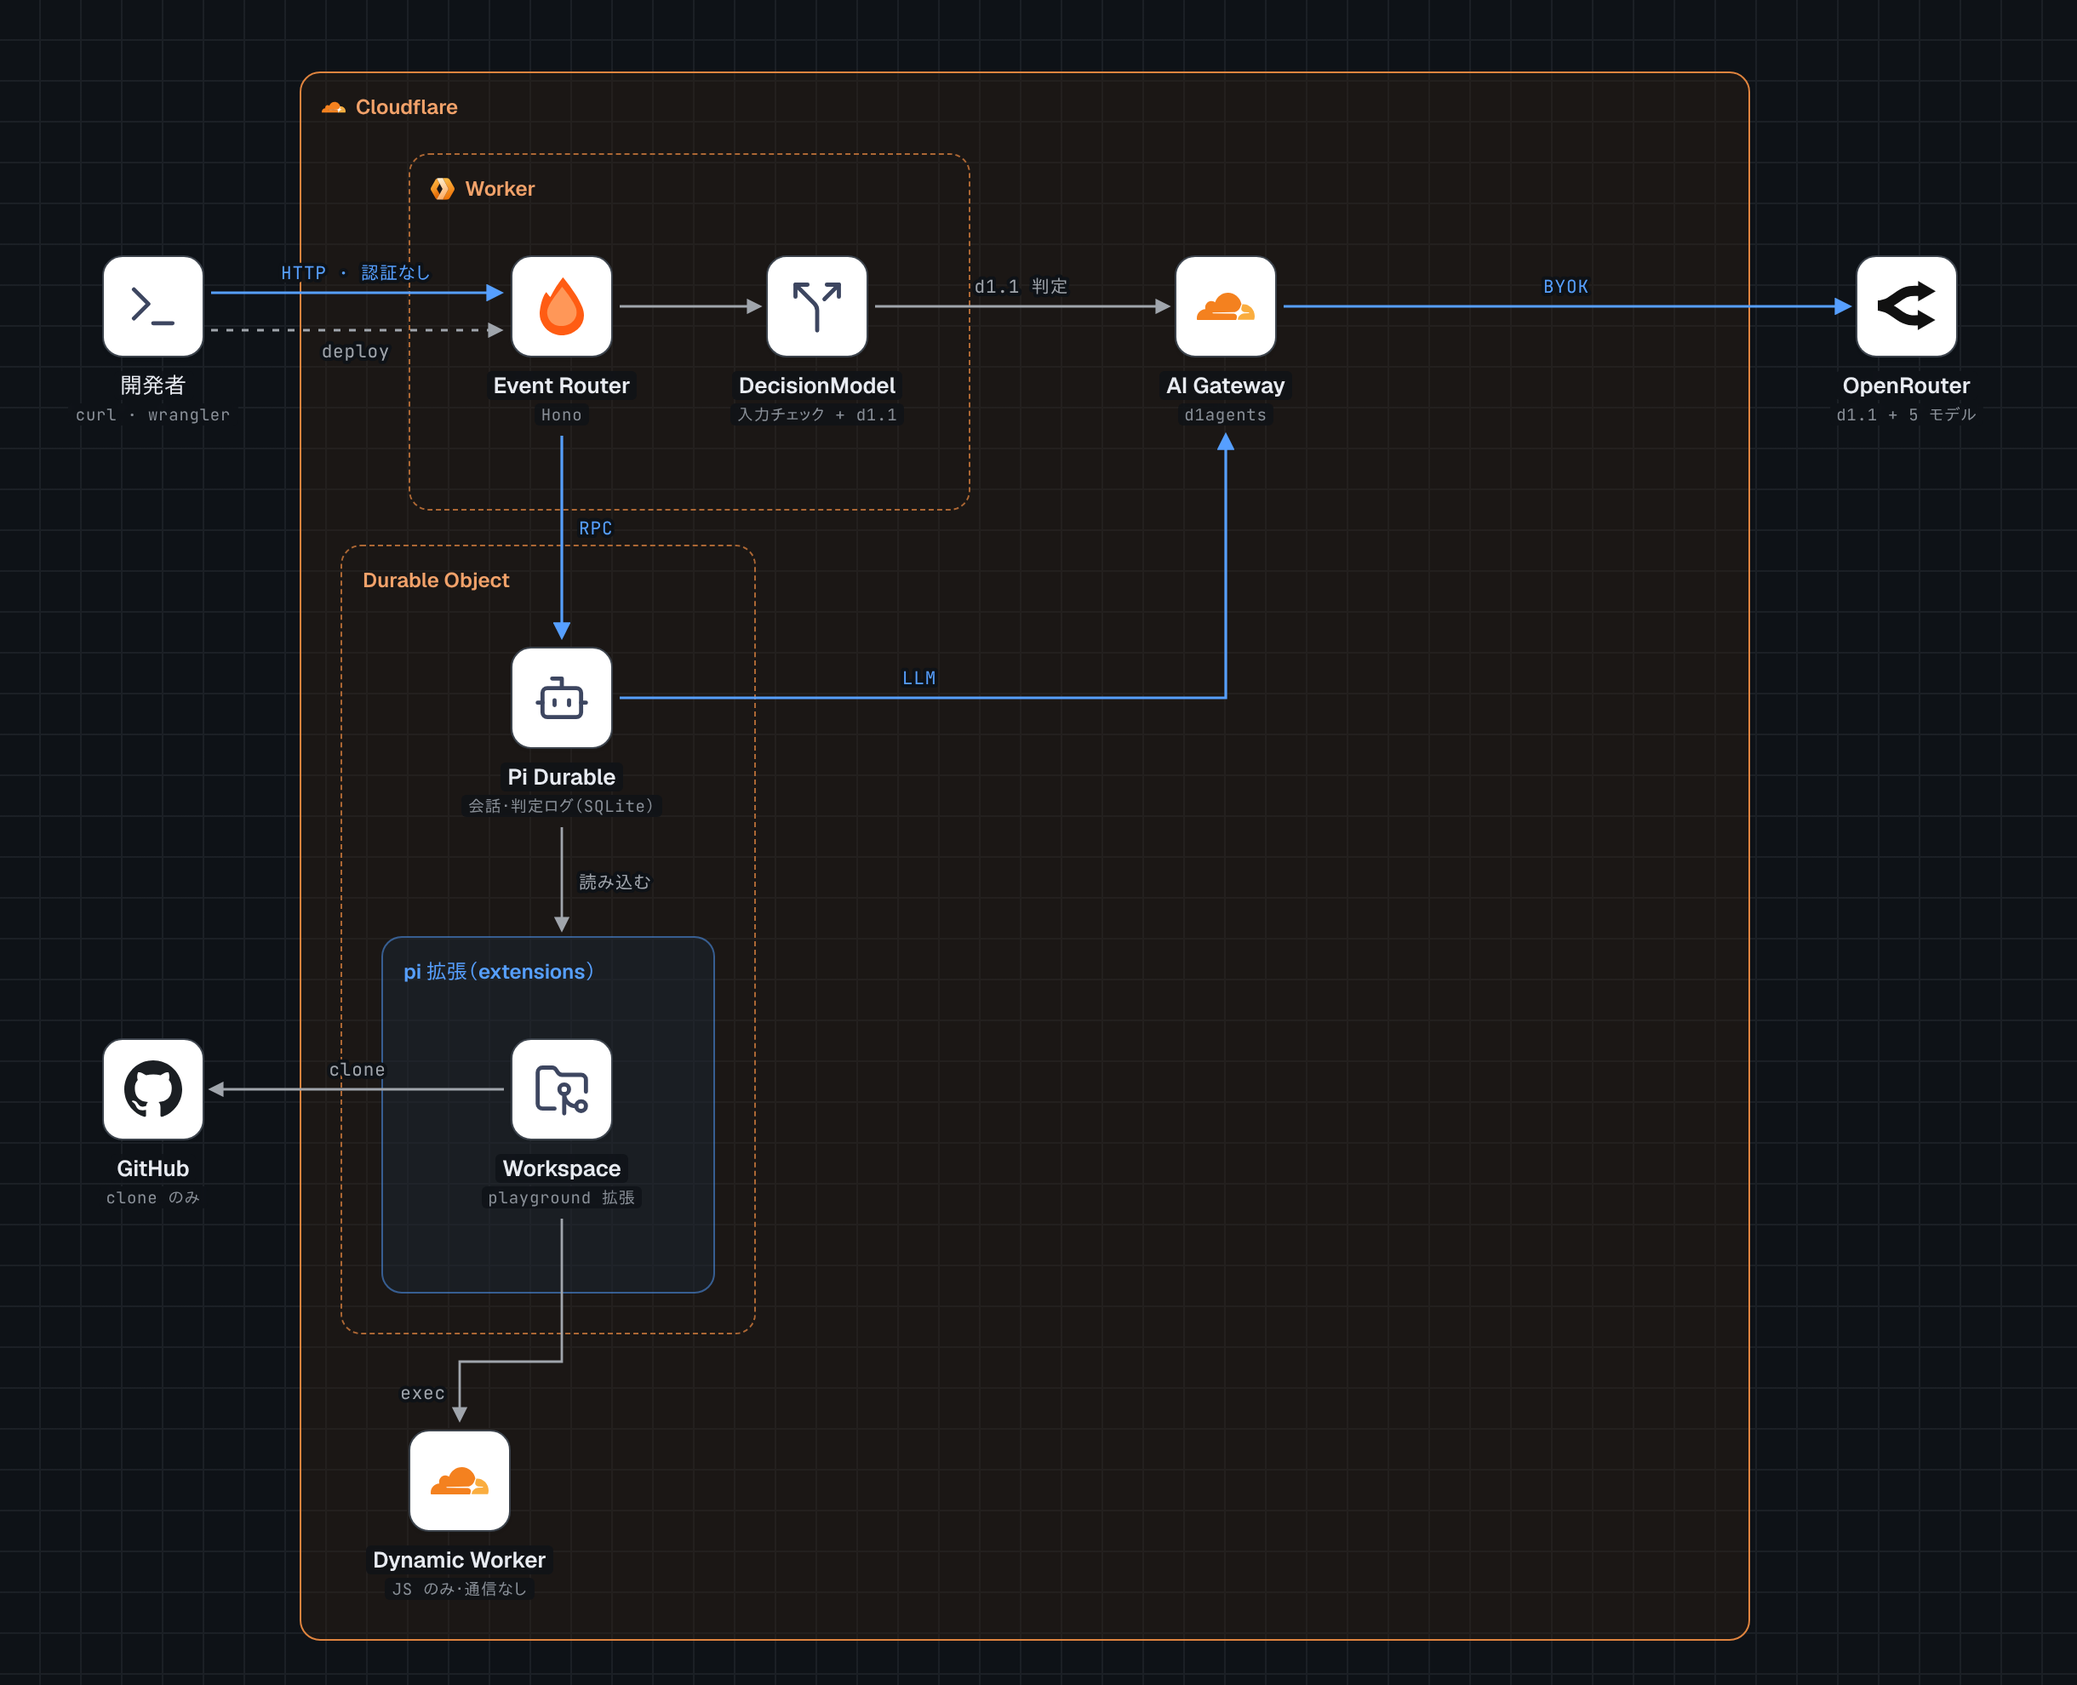
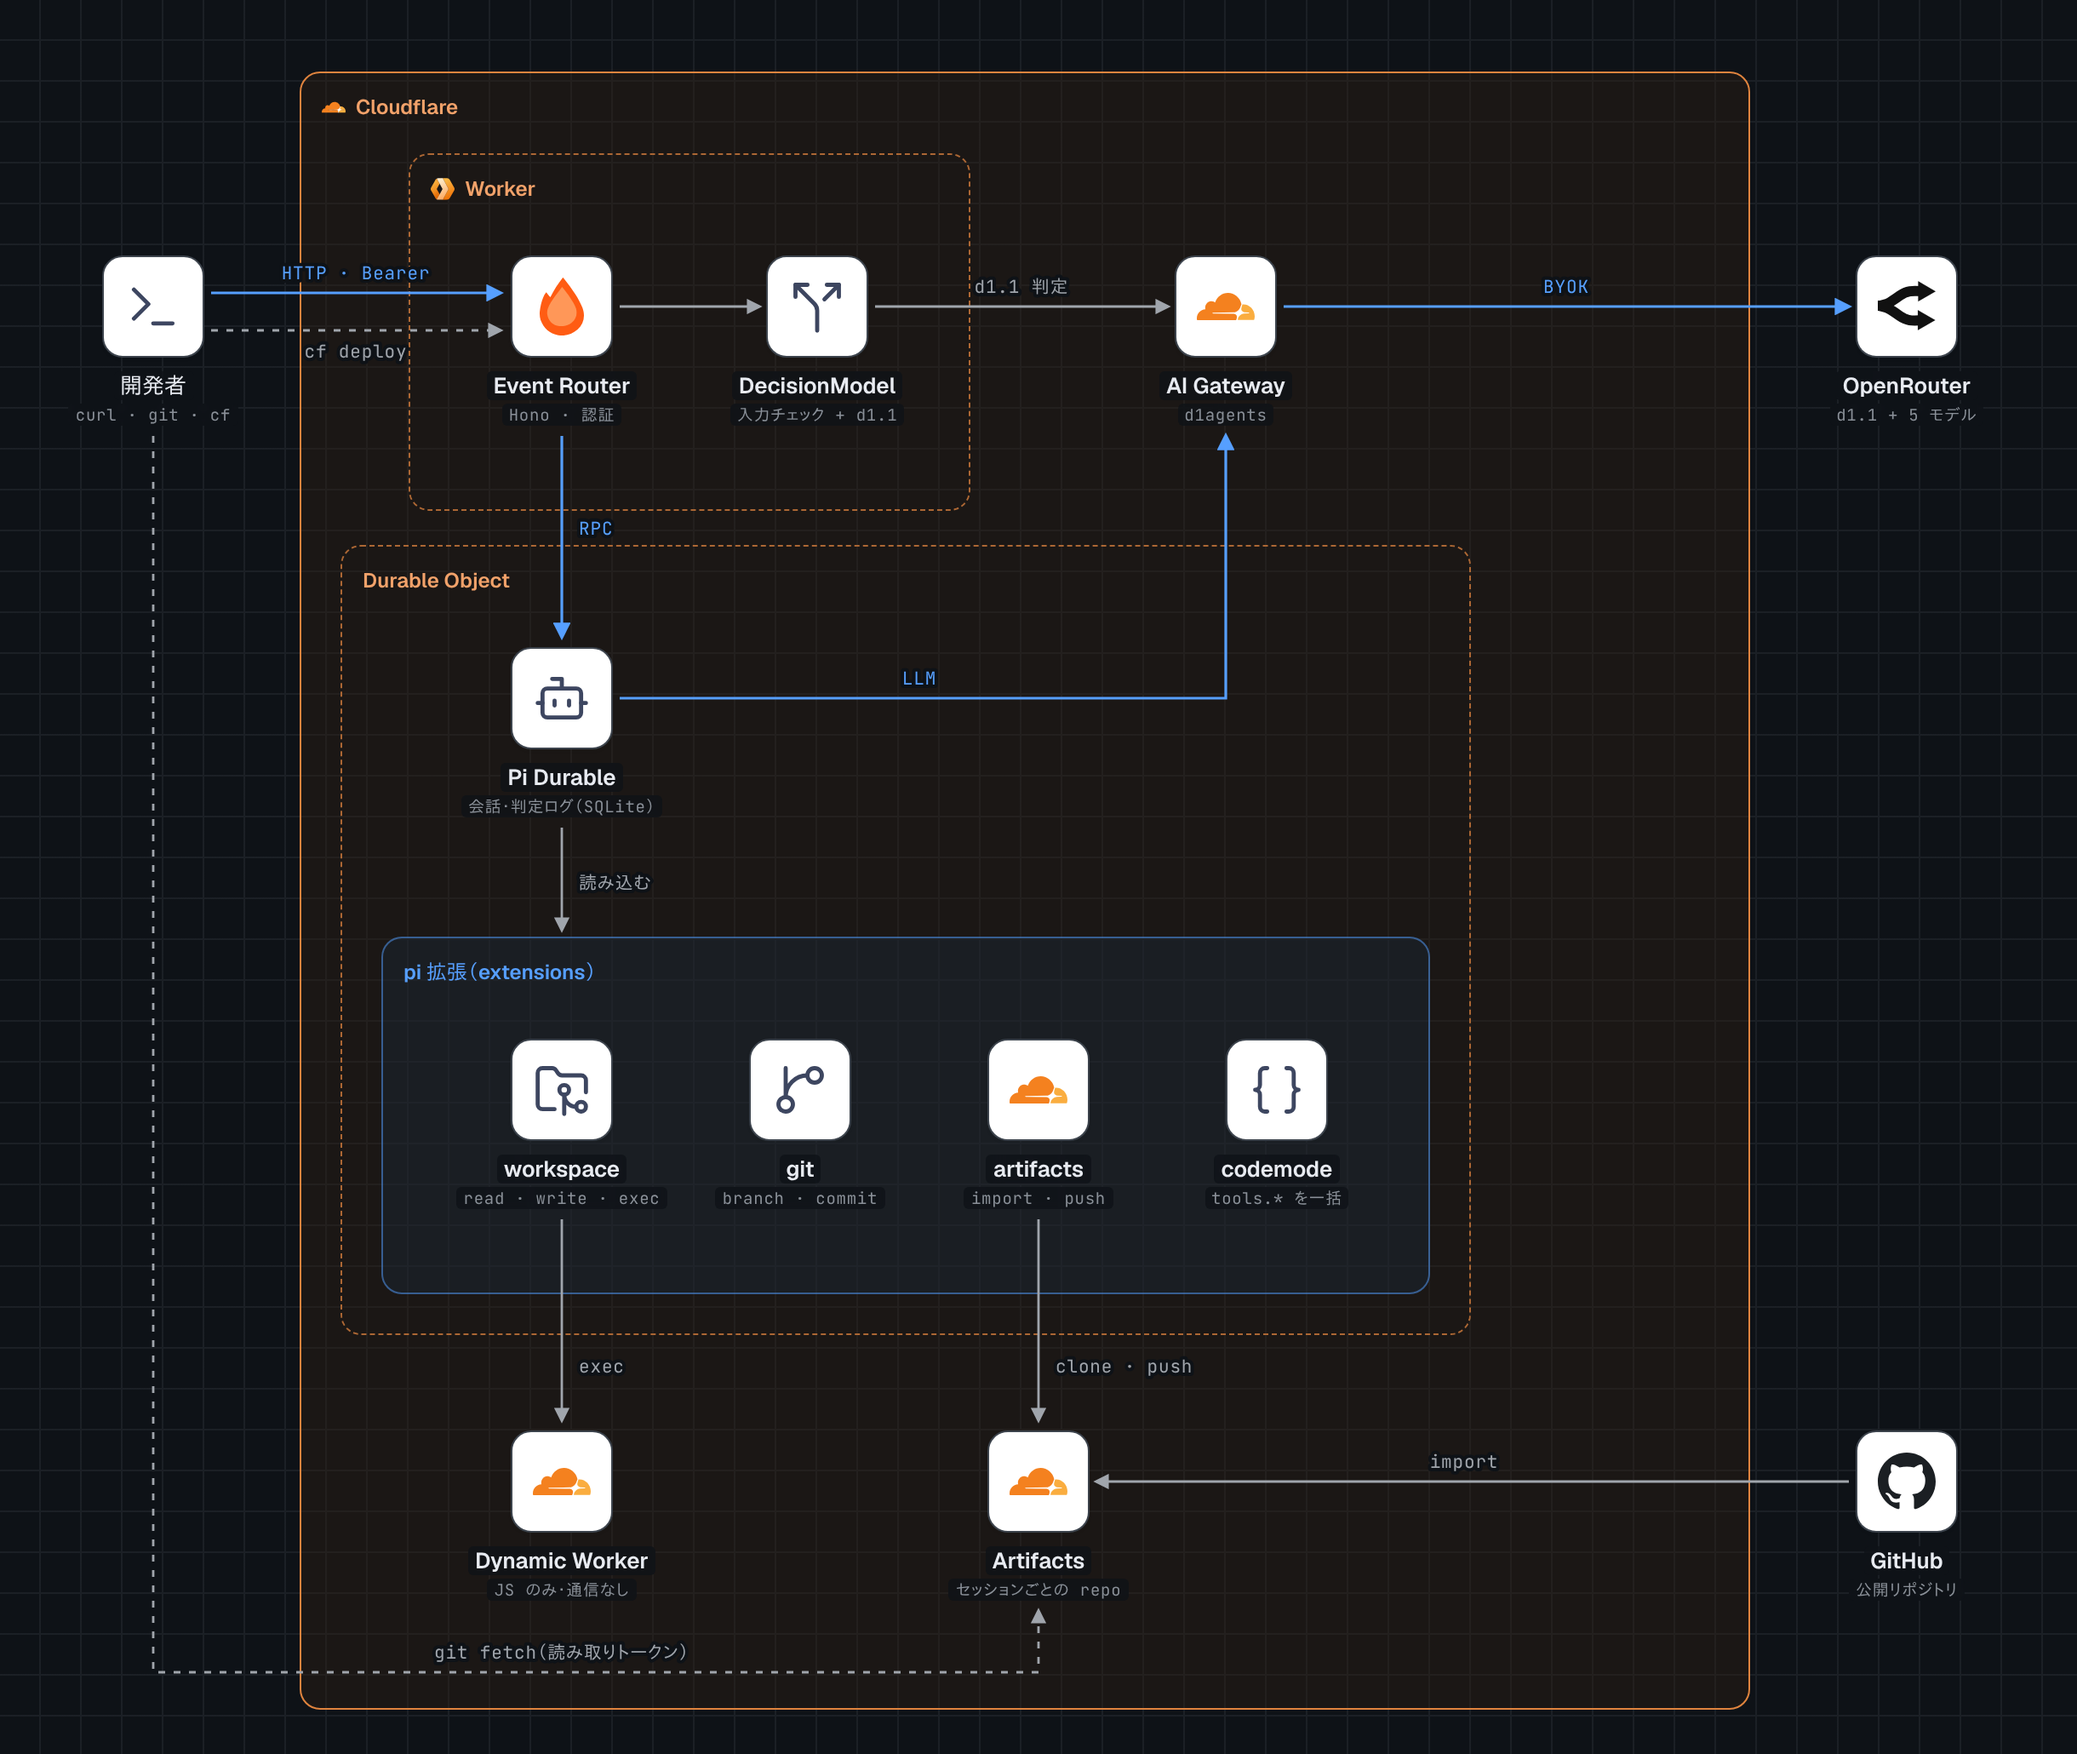
Redraw the current architecture diagram for Artifacts
The current diagram still showed the pre-Artifacts stack (no auth, one
playground extension, GitHub clone only). Redraw it: Bearer auth, cf
deploy, the workspace, git, artifacts and codemode extensions, per-session
repositories in Cloudflare Artifacts with GitHub as an import source, and
a person fetching the agent's branches with a read token. The target
diagram is unchanged and noted as pre-Artifacts.

Claude-Session: https://claude.ai/code/session_01XNok8SzKsrcwuLyNE55Cg3

diff --git a/docs/architecture/current.html b/docs/architecture/current.html
@@ -189,35 +189,35 @@ table.cmp td code { font-family: var(--font-mono); font-size: 11.5px; }
       <div class="kicker">d1agents / 現状 / 2026-11</div>
       <h1>D1Agents 現状の構成</h1>
     </div>
-    <p class="lede">HTTP API だけで動く Pi Durable エージェント。pi 拡張は playground の 1 つだけ。</p>
+    <p class="lede">HTTP API で動く Pi Durable のコーディングエージェント。git は Cloudflare Artifacts に、セッションごとに置く。</p>
   </header>
 
   <div class="scroller">
-  <div class="canvas" style="width:1220px; height:990px;">
+  <div class="canvas" style="width:1220px; height:1030px;">
 
-    <div class="group ga" style="left:176px; top:42px; width:852px; height:922px;">
+    <div class="group ga" style="left:176px; top:42px; width:852px; height:962px;">
[1 lines of base64/hex data omitted]
     </div>
     <div class="group ga-nested" style="left:240px; top:90px; width:330px; height:210px;">
[1 lines of base64/hex data omitted]
     </div>
-    <div class="group ga-nested" style="left:200px; top:320px; width:244px; height:464px;">
+    <div class="group ga-nested" style="left:200px; top:320px; width:664px; height:464px;">
       <div class="g-label">Durable Object</div>
     </div>
-    <div class="group gb" style="left:224px; top:550px; width:196px; height:210px;">
+    <div class="group gb" style="left:224px; top:550px; width:616px; height:210px;">
       <div class="g-label">pi 拡張（extensions）</div>
     </div>
 
-    <svg class="edges" style="width:1220px; height:990px;" viewBox="0 0 1220 990" aria-hidden="true">
+    <svg class="edges" style="width:1220px; height:1030px;" viewBox="0 0 1220 1030" aria-hidden="true">
       <defs>
         <marker id="ar" viewBox="0 0 10 10" refX="8" refY="5" markerWidth="6.5" markerHeight="6.5" orient="auto-start-reverse">
           <path d="M0 0 L10 5 L0 10 z" fill="context-stroke"/>
         </marker>
       </defs>
       <path class="e" d="M124 172 H294" marker-end="url(#ar)"/>
-      <text class="el a" x="209" y="164" text-anchor="middle">HTTP · 認証なし</text>
+      <text class="el a" x="209" y="164" text-anchor="middle">HTTP · Bearer</text>
       <path class="n dash" d="M124 194 H294" marker-end="url(#ar)"/>
-      <text class="el" x="209" y="210" text-anchor="middle">deploy</text>
+      <text class="el" x="209" y="210" text-anchor="middle">cf deploy</text>
       <path class="n" d="M364 180 H446" marker-end="url(#ar)"/>
       <path class="n" d="M514 180 H686" marker-end="url(#ar)"/>
       <text class="el" x="600" y="172" text-anchor="middle">d1.1 判定</text>
@@ -229,19 +229,23 @@ table.cmp td code { font-family: var(--font-mono); font-size: 11.5px; }
       <text class="el a" x="540" y="402" text-anchor="middle">LLM</text>
       <path class="n" d="M330 486 V546" marker-end="url(#ar)"/>
       <text class="el" x="340" y="522" text-anchor="start">読み込む</text>
-      <path class="n" d="M296 640 H124" marker-end="url(#ar)"/>
-      <text class="el" x="210" y="632" text-anchor="middle">clone</text>
-      <path class="n" d="M330 716 V800 H270 V834" marker-end="url(#ar)"/>
-      <text class="el" x="262" y="822" text-anchor="end">exec</text>
+      <path class="n" d="M330 716 V834" marker-end="url(#ar)"/>
+      <text class="el" x="340" y="806" text-anchor="start">exec</text>
+      <path class="n" d="M610 716 V834" marker-end="url(#ar)"/>
+      <text class="el" x="620" y="806" text-anchor="start">clone · push</text>
+      <path class="n" d="M1086 870 H644" marker-end="url(#ar)"/>
+      <text class="el" x="860" y="862" text-anchor="middle">import</text>
+      <path class="n dash" d="M90 256 V982 H610 V946" marker-end="url(#ar)"/>
+      <text class="el" x="330" y="974" text-anchor="middle">git fetch（読み取りトークン）</text>
     </svg>
 
     <div class="node" style="left:24px;top:150px">
[1 lines of base64/hex data omitted]
-      <div class="name"><span>開発者</span></div><div class="role"><span>curl · wrangler</span></div>
+      <div class="name"><span>開発者</span></div><div class="role"><span>curl · git · cf</span></div>
     </div>
     <div class="node" style="left:264px;top:150px">
[1 lines of base64/hex data omitted]
-      <div class="name"><span>Event Router</span></div><div class="role"><span>Hono</span></div>
+      <div class="name"><span>Event Router</span></div><div class="role"><span>Hono · 認証</span></div>
     </div>
     <div class="node" style="left:414px;top:150px">
[1 lines of base64/hex data omitted]
@@ -261,15 +265,31 @@ table.cmp td code { font-family: var(--font-mono); font-size: 11.5px; }
     </div>
     <div class="node" style="left:264px;top:610px">
[1 lines of base64/hex data omitted]
-      <div class="name"><span>Workspace</span></div><div class="role"><span>playground 拡張</span></div>
+      <div class="name"><span>workspace</span></div><div class="role"><span>read · write · exec</span></div>
     </div>
-    <div class="node" style="left:204px;top:840px">
+    <div class="node" style="left:404px;top:610px">
[1 lines of base64/hex data omitted]
+      <div class="name"><span>git</span></div><div class="role"><span>branch · commit</span></div>
+    </div>
+    <div class="node" style="left:544px;top:610px">
[1 lines of base64/hex data omitted]
+      <div class="name"><span>artifacts</span></div><div class="role"><span>import · push</span></div>
+    </div>
+    <div class="node" style="left:684px;top:610px">
[1 lines of base64/hex data omitted]
+      <div class="name"><span>codemode</span></div><div class="role"><span>tools.* を一括</span></div>
+    </div>
+    <div class="node" style="left:264px;top:840px">
[1 lines of base64/hex data omitted]
       <div class="name"><span>Dynamic Worker</span></div><div class="role"><span>JS のみ・通信なし</span></div>
     </div>
-    <div class="node" style="left:24px;top:610px">
+    <div class="node" style="left:544px;top:840px">
[1 lines of base64/hex data omitted]
+      <div class="name"><span>Artifacts</span></div><div class="role"><span>セッションごとの repo</span></div>
+    </div>
+    <div class="node" style="left:1054px;top:840px">
[1 lines of base64/hex data omitted]
-      <div class="name"><span>GitHub</span></div><div class="role"><span>clone のみ</span></div>
+      <div class="name"><span>GitHub</span></div><div class="role"><span>公開リポジトリ</span></div>
     </div>
 
   </div>
@@ -278,8 +298,7 @@ table.cmp td code { font-family: var(--font-mono); font-size: 11.5px; }
   <div class="legend">
     <span><span class="sw"></span>依頼の流れ</span>
     <span><span class="sw n"></span>内部の呼び出し</span>
-    <span><span class="sw n dash"></span>デプロイ・任意</span>
-    <span>＋ 追加する部分（案）</span>
+    <span><span class="sw n dash"></span>人の操作（デプロイ・確認）</span>
   </div>
 
   <div class="foot">
